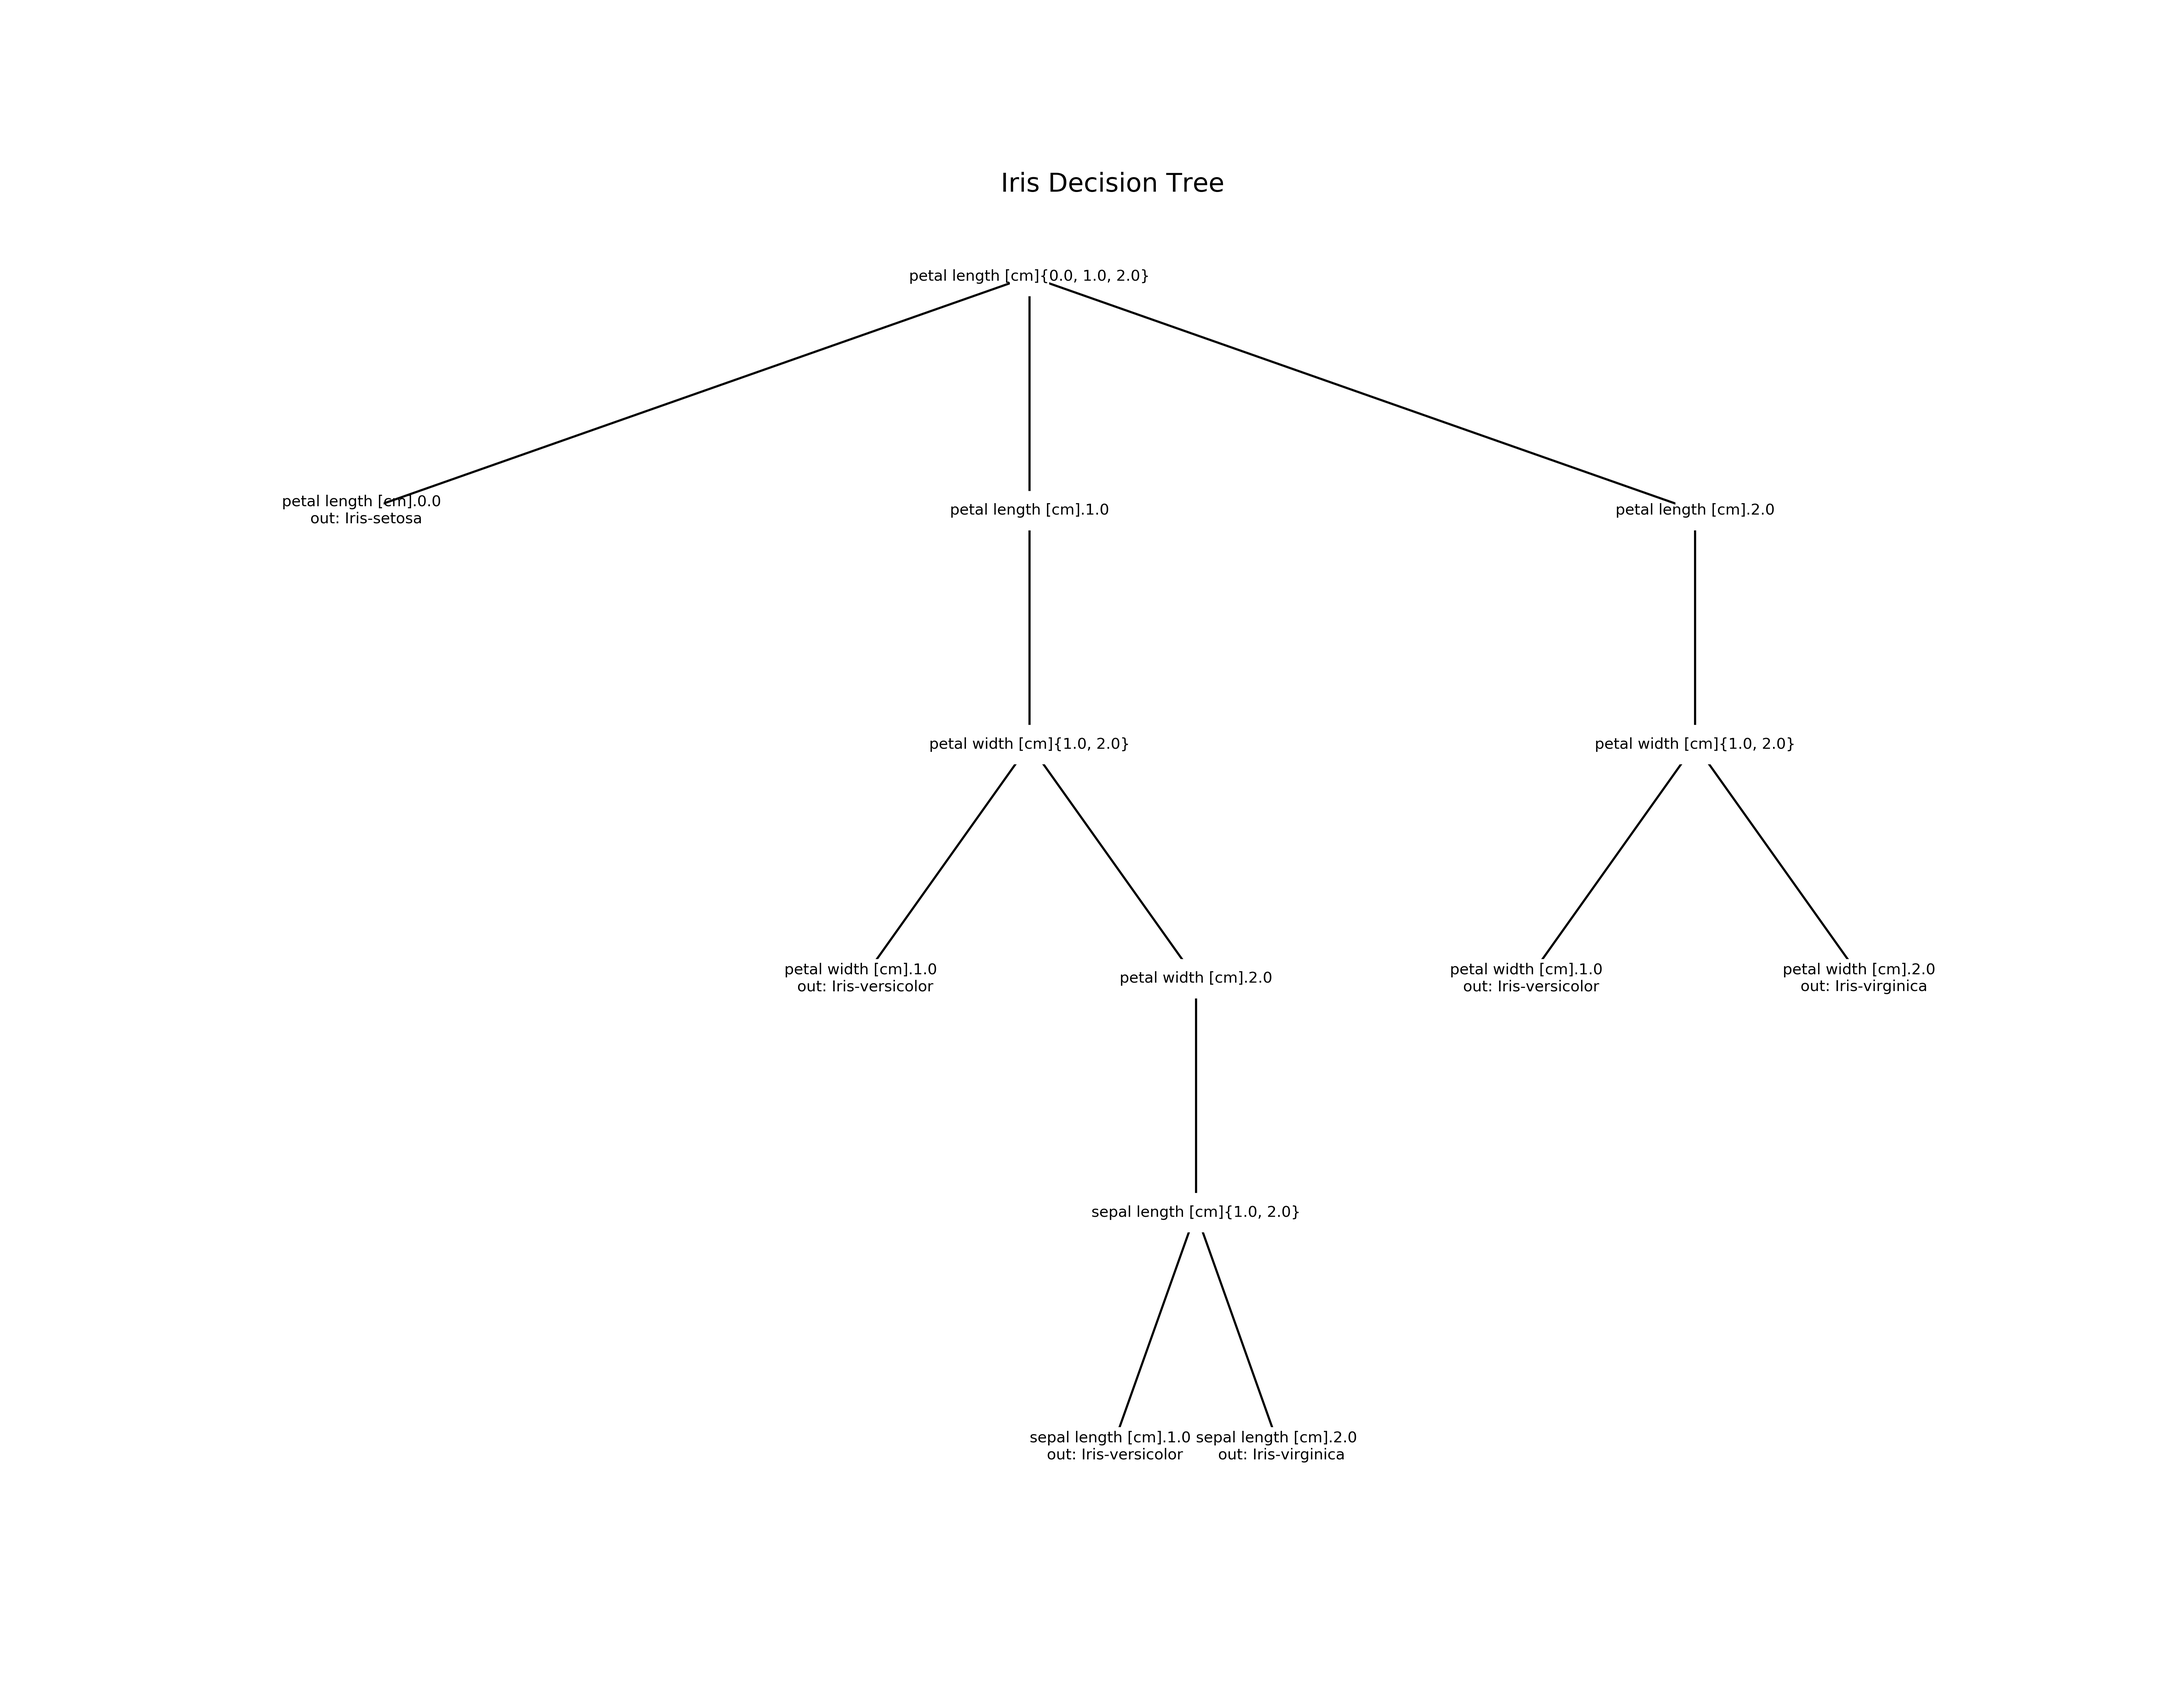
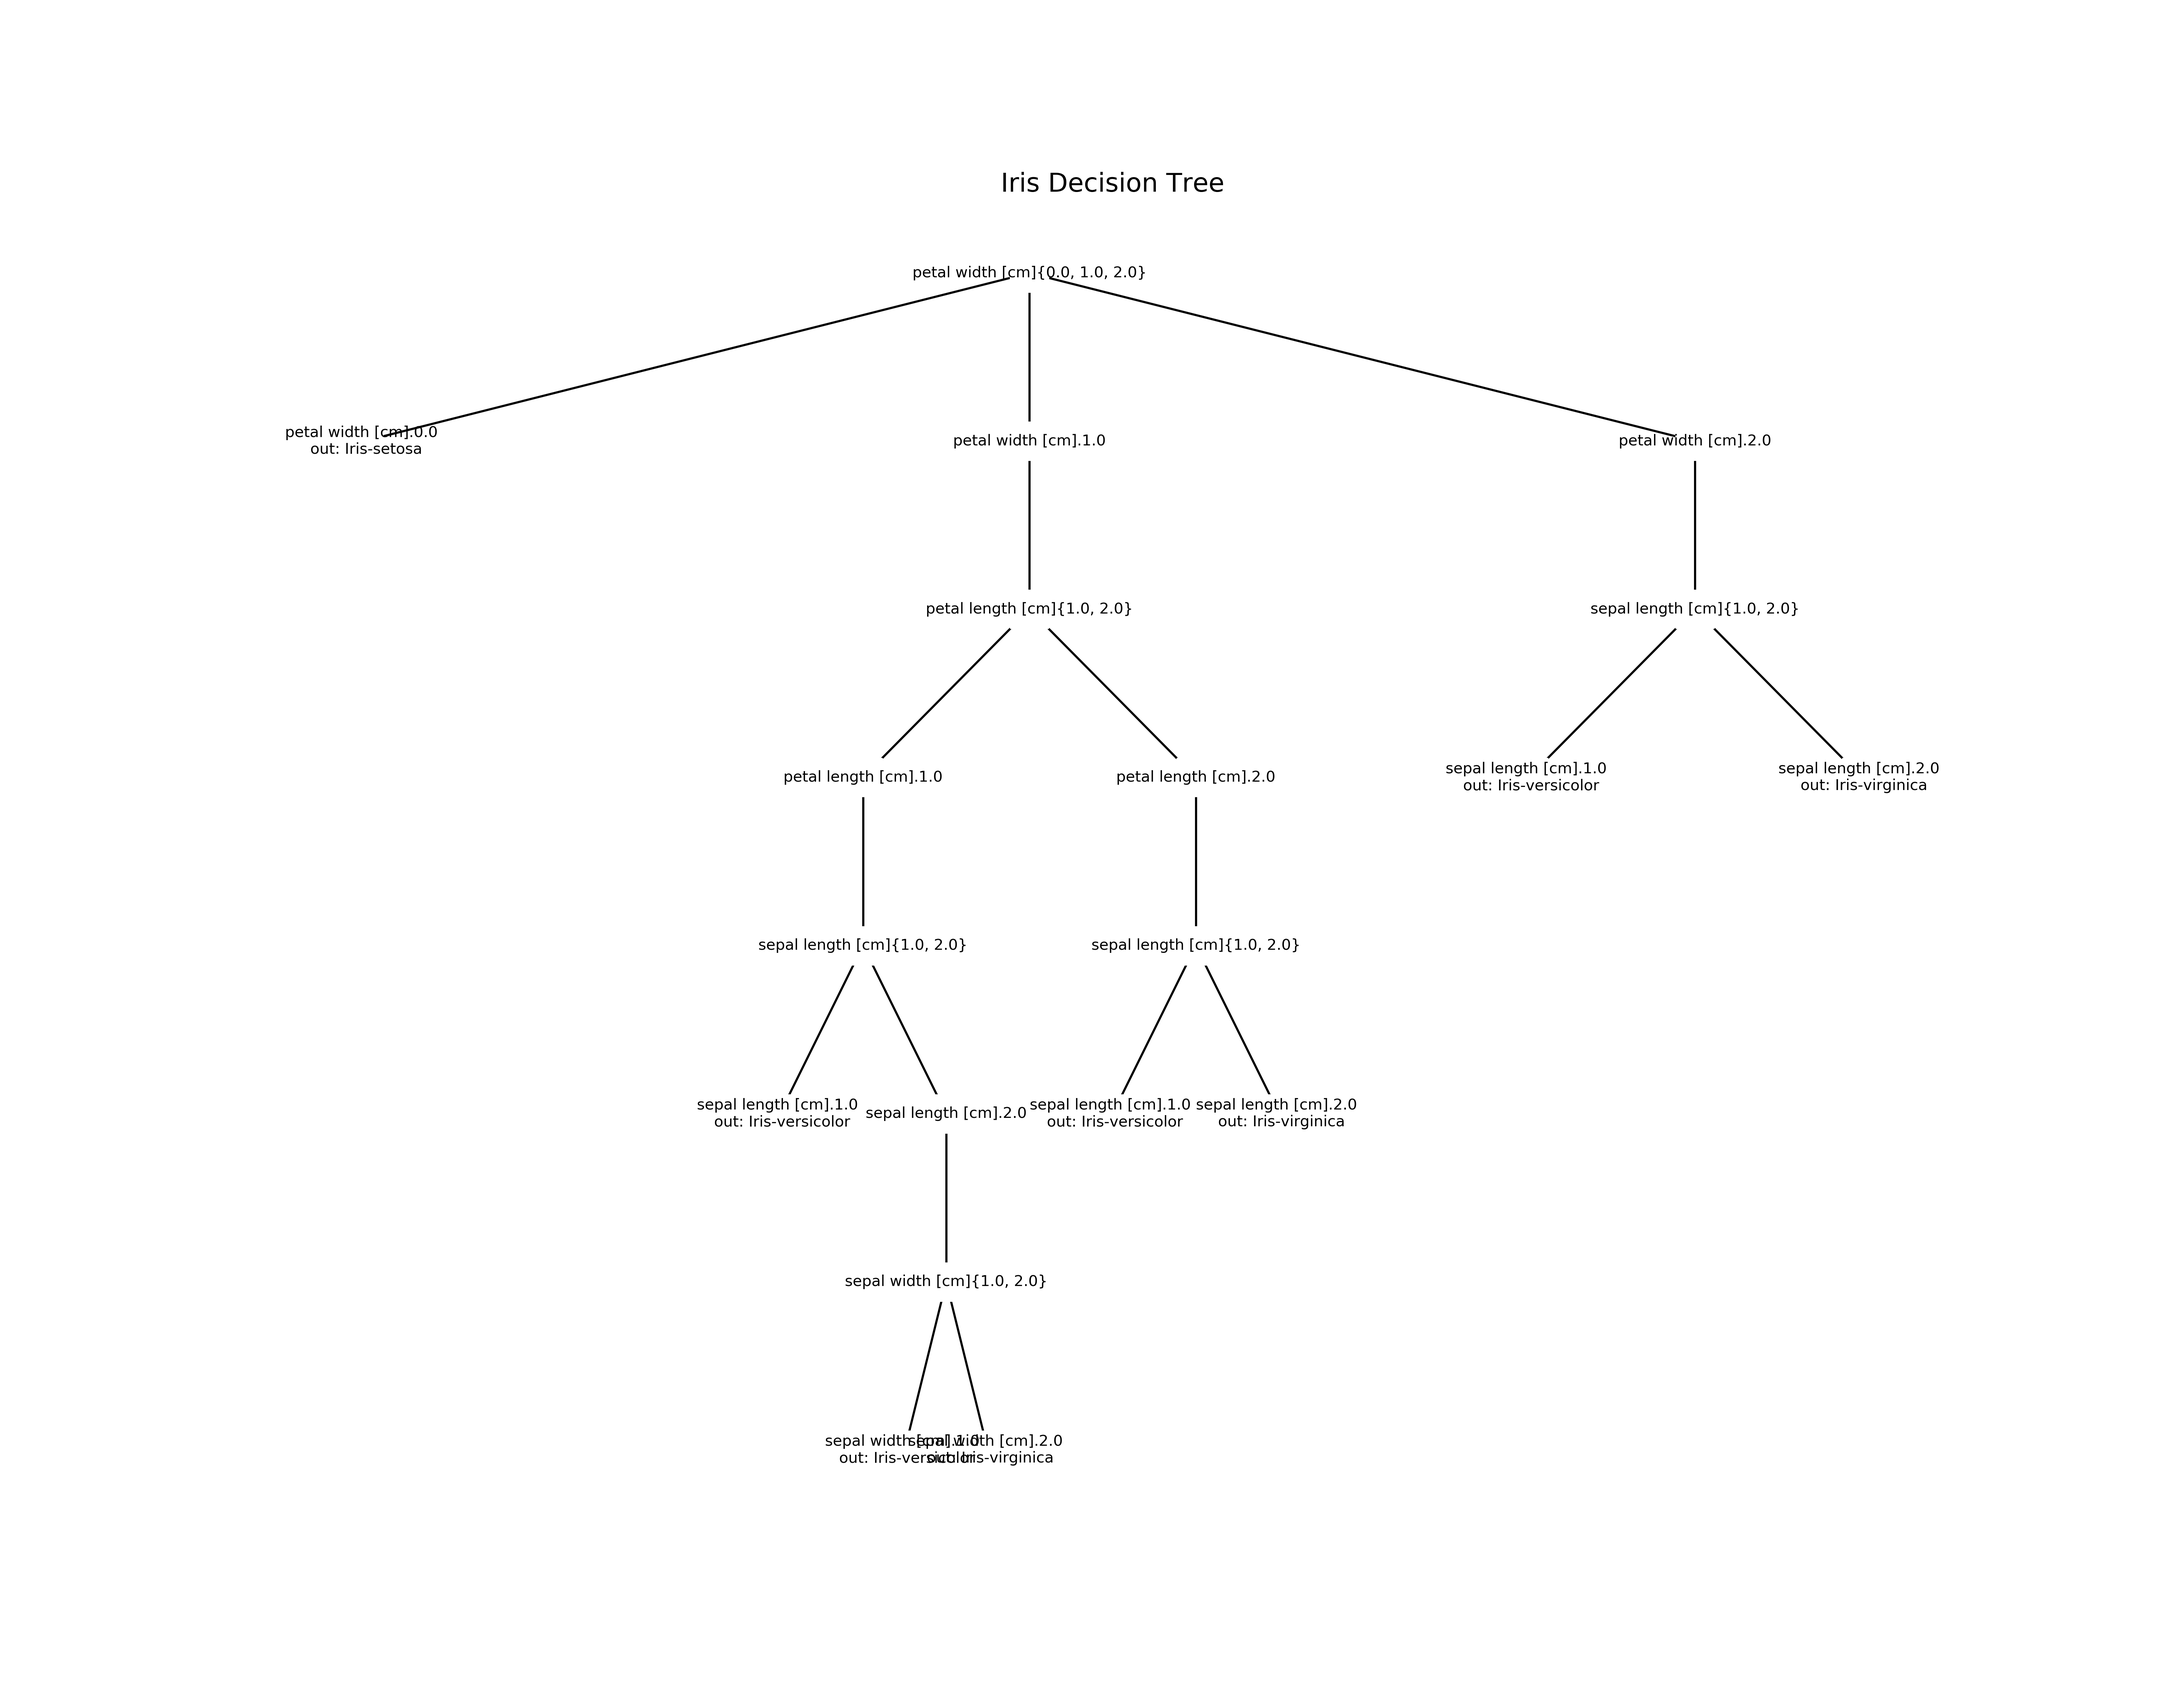
learning curve

diff --git a/Projet Final AI/Code/DecesionTreeTools.py b/Projet Final AI/Code/DecesionTreeTools.py
@@ -417,19 +417,23 @@ class Leaf(Node):
 
     def close(self):
         assert len(self._children) == 0
-        assert self._parent is not None
-        assert isinstance(self._parent, (SubNode, Node))
+        # assert self._parent is not None
 
-        if self.data is None:
-            self._data = self._parent.data
-        if self.out is None:
-            if isinstance(self._parent.data, Feature):
-                self.out = self._parent.data()()
-                self.info = self._parent.data().getOutLabel()
-            if isinstance(self._parent.data, SubFeature):
-                self.out = self._parent.data()
-                self.info = self._parent.data.getOutLabel()
-        self._parent.close()
+        if self._parent is not None:
+            assert isinstance(self._parent, (SubNode, Node))
+            if self.data is None:
+                self._data = self._parent.data
+            if self.out is None:
+                if isinstance(self._parent.data, Feature):
+                    self.out = self._parent.data()()
+                    self.info = self._parent.data().getOutLabel()
+                if isinstance(self._parent.data, SubFeature):
+                    self.out = self._parent.data()
+                    self.info = self._parent.data.getOutLabel()
+            self._parent.close()
+        else:
+            assert self.out is not None
+
         self.isClose = True
 
     def __str__(self):

diff --git a/Projet Final AI/Code/DecisionTree.py b/Projet Final AI/Code/DecisionTree.py
@@ -98,7 +98,8 @@ class DecisionTree(Classifier):
         if self.features is None:
             self.features = [Feature(idx) for idx in range(train_set.shape[1])]
 
-        assert train_set.shape[1] == len(self.features)
+        assert train_set.shape[1] == len(self.features),\
+            f"train_set.shape[1] must be equal to {len(self.features)} but equal to {train_set.shape[1]}"
         self.train_set = train_set
         self.train_labels = train_labels
 
@@ -108,7 +109,7 @@ class DecisionTree(Classifier):
         self._entropy = self._computeEntropy(train_labels)
         self._gains = self._computeGains(train_labels, self.features)
 
-        self.tree = self._buildTree(train_set, train_labels, self.features)
+        self.tree = self._buildTree(train_set, train_labels, deepcopy(self.features))
         isClose = self.tree.close()
         assert isClose, "Something wrong with the current tree"
 
@@ -142,7 +143,7 @@ if __name__ == '__main__':
 
     warnings.filterwarnings("ignore")
 
-    train_ratio_dt: float = 0.8
+    train_ratio_dt: float = 0.7
 
     confusionMatrixList: list = list()
 
@@ -164,6 +165,7 @@ if __name__ == '__main__':
     confusionMatrixList.append(cm)
 
     iris_dt.draw()
+    iris_dt.plot_learning_curve(iris_train, iris_train_labels, iris_test, iris_test_labels, save_name="iris_DT")
 
     print(f"\n --- Elapse time: {1_000 * endTime:.2f} ms --- \n")
 

diff --git a/Projet Final AI/Code/classifieur.py b/Projet Final AI/Code/classifieur.py
@@ -179,3 +179,29 @@ class Classifier:
               f"Recall [%]: {np.array([np.round(r_i * 100, 2) for r_i in recall])}",
               f"Mean Recall: {recall.mean() * 100:.2f} %",
               sep='\n')
+
+    def plot_learning_curve(self, train_set: np.ndarray, train_labels: np.ndarray, test_set, test_labels, **kwargs):
+        import matplotlib.pyplot as plt
+
+        prn: int = kwargs.get("prn", 20)
+        save_name: str = kwargs.get("save_name", "LC")
+
+        accuracies: list = []
+        training_size: list = []
+
+        for tr_size in range(1, len(train_set)+1):
+            acc_l = []
+            for _ in range(prn):
+                sub_train_set_idx = np.random.choice(len(train_set), (tr_size,))
+                self.train(train_set[sub_train_set_idx], train_labels[sub_train_set_idx], verbose=False)
+                _, acc, _, _ = self.test(test_set, test_labels, verbose=False)
+                acc_l.append(acc)
+            accuracies.append(np.array(acc_l).mean())
+            training_size.append(tr_size)
+
+        plt.plot(training_size, accuracies)
+        plt.grid()
+        plt.xlabel("Training size")
+        plt.ylabel("Accuracy")
+        plt.savefig(f"Figures/Learning_curve_{save_name}.png", dpi=500)
+        plt.show()
